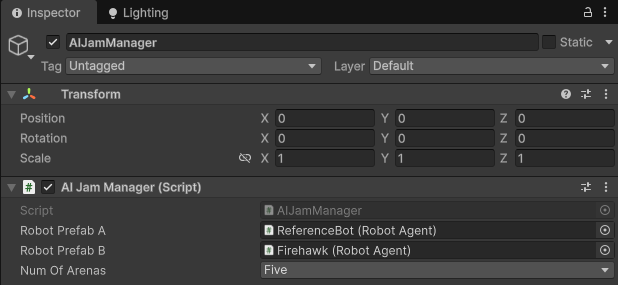
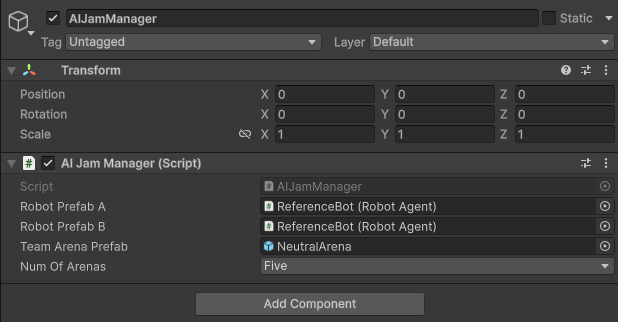
Train in the team's own arena
AIJamManager has an optional Team Arena Prefab. When it is set, every
training environment switches off its built-in neutral arena and uses
the team's arena; when it is empty, nothing changes.

diff --git a/Assets/Scripts/Editor/Tests/RobotScriptTests.cs b/Assets/Scripts/Editor/Tests/RobotScriptTests.cs
@@ -512,6 +512,56 @@ namespace AIJam.RobotScripts.Tests {
             }
         }
 
+        // ---- AIJamManager: team arena in the training scene ----
+
+        private const string ArenaPath = "Assets/Turnaj/Prefabs/NeutralArena.prefab";
+
+        /// <summary>A training environment like in TrainingScene: the built-in neutral arena is the child "Arena".</summary>
+        private GameObject Environment(out GameObject neutralArena) {
+            var env = new GameObject("Environment test");
+            spawned.Add(env);
+            env.transform.position = new Vector3(7f, 0f, 0f);
+            neutralArena = new GameObject("Arena");
+            neutralArena.transform.SetParent(env.transform, false);
+            return env;
+        }
+
+        [Test]
+        public void TeamArena_WhenLinked_ReplacesTheNeutralArena() {
+            var env = Environment(out var neutral);
+            var prefab = AssetDatabase.LoadAssetAtPath<GameObject>(ArenaPath);
+
+            var arena = AIJamManager.UseTeamArena(env, prefab);
+
+            Assert.IsNotNull(arena, "team arena instance");
+            Assert.IsFalse(neutral.activeSelf, "the neutral arena must be switched off");
+            Assert.AreEqual(env.transform, arena.transform.parent);
+            Assert.AreEqual(Vector3.zero, arena.transform.localPosition, "in the centre of the environment");
+            Assert.AreEqual(prefab.name, arena.name);
+            Assert.IsTrue(arena.activeSelf);
+        }
+
+        [Test]
+        public void TeamArena_WhenNotLinked_KeepsTheNeutralArena() {
+            var env = Environment(out var neutral);
+
+            var arena = AIJamManager.UseTeamArena(env, null);
+
+            Assert.IsNull(arena);
+            Assert.IsTrue(neutral.activeSelf);
+            Assert.AreEqual(1, env.transform.childCount);
+        }
+
+        [Test]
+        public void TeamArena_KeepsTheRotationOfThePrefab() {
+            var env = Environment(out _);
+            var prefab = AssetDatabase.LoadAssetAtPath<GameObject>(ArenaPath);
+
+            var arena = AIJamManager.UseTeamArena(env, prefab);
+
+            Assert.AreEqual(prefab.transform.rotation.eulerAngles, arena.transform.localRotation.eulerAngles);
+        }
+
         // ---- DemoDriver: scripted driver for recording demonstrations ----
 
         [Test]

diff --git a/Assets/Scripts/AIJamManager.cs b/Assets/Scripts/AIJamManager.cs
@@ -13,6 +13,9 @@ public class AIJamManager : MonoBehaviour
     [SerializeField] RobotAgent robotPrefabA;
     [SerializeField] RobotAgent robotPrefabB;
 
+    [Tooltip("Optional: the team's home arena prefab. When set, training runs in this arena; when empty, in the neutral arena of the scene.")]
+    [SerializeField] GameObject teamArenaPrefab;
+
 
     // Počet arén pre tréning. Je potrebné otestovať výkon pri rôznych počtoch.
     private enum numArenas {
@@ -37,6 +40,9 @@ public class AIJamManager : MonoBehaviour
         }
 
         foreach (var env in environments.OrderBy(e => e.name).Take((int)numOfArenas)) {
+            // The arena must be in place before the robots, so that its traps and bonuses find them.
+            UseTeamArena(env, teamArenaPrefab);
+
             var robotA = Instantiate(robotPrefabA, env.transform);
             var robotB = Instantiate(robotPrefabB, env.transform);
             // Agent camera sees only the RobotView layer (old prefabs also saw Default - a bug).
@@ -55,6 +61,26 @@ public class AIJamManager : MonoBehaviour
             scoreGUI.SetRobots(robotA, robotB);
 
         }
+    }
+
+    /// <summary>Name of the built-in neutral arena inside every training environment.</summary>
+    public const string NeutralArenaName = "Arena";
+
+    /// <summary>
+    /// Puts the team's arena into a training environment in place of the built-in neutral one.
+    /// Without a prefab nothing changes and the neutral arena stays. Returns the new arena or null.
+    /// </summary>
+    public static GameObject UseTeamArena(GameObject environment, GameObject arenaPrefab) {
+        if (environment == null || arenaPrefab == null) return null;
+
+        var neutral = environment.transform.Find(NeutralArenaName);
+        if (neutral != null) neutral.gameObject.SetActive(false);
+
+        var arena = Instantiate(arenaPrefab, environment.transform);
+        arena.name = arenaPrefab.name;
+        arena.transform.localPosition = Vector3.zero;
+        arena.transform.localRotation = arenaPrefab.transform.rotation;
+        return arena;
     }
 
     private void MoveRobot(RobotAgent robot, int robotIdx) {

diff --git a/README.md b/README.md
@@ -230,9 +230,10 @@ Príklady sú v `Assets/Turnaj/Teams`.
 1. Otvorte **TrainingScene** a vyberte **AIJamManager**:
    - **Robot Prefab A:** váš robot. Tento sa učí.
    - **Robot Prefab B:** jeho súper. Môže to byť znova váš robot (obe kópie sa učia tú istú politiku) alebo niektorý robot z minulého ročníka z `Assets/Training Results`.
+   - **Team Arena Prefab** *(voliteľné)*: prefab vašej domácej arény ([2.2](#22-domáca-aréna)). Keď ho priradíte, tréning beží vo vašej aréne s jej pascami a bonusmi; keď pole necháte prázdne, použije sa neutrálna aréna scény. Roboty pri tréningu štartujú na náhodných miestach okolo stredu, značky Home a Guest sa nepoužívajú.
    - **Num Of Arenas:** One, Three alebo Five. Viac arén zbiera skúsenosti rýchlejšie, ale potrebuje výkonnejší počítač.
 
-   <img src="img/inspector_aijammanager.png" width="480" alt="Inspector AIJamManager: Robot Prefab A, Robot Prefab B a Num Of Arenas">
+   <img src="img/inspector_aijammanager.png" width="480" alt="Inspector AIJamManager: Robot Prefab A, Robot Prefab B, Team Arena Prefab a Num Of Arenas">
 
    > **Pevný súper musí mať Inference Only.** Ak trénujete proti hotovému robotovi, otvorte jeho prefab a nastavte **BehaviorParameters → Behavior Type = Inference Only** s priradeným modelom. Inak ho tréner prevezme tiež (má rovnaký Behavior Name) a prestane hrať podľa svojho modelu.
 
